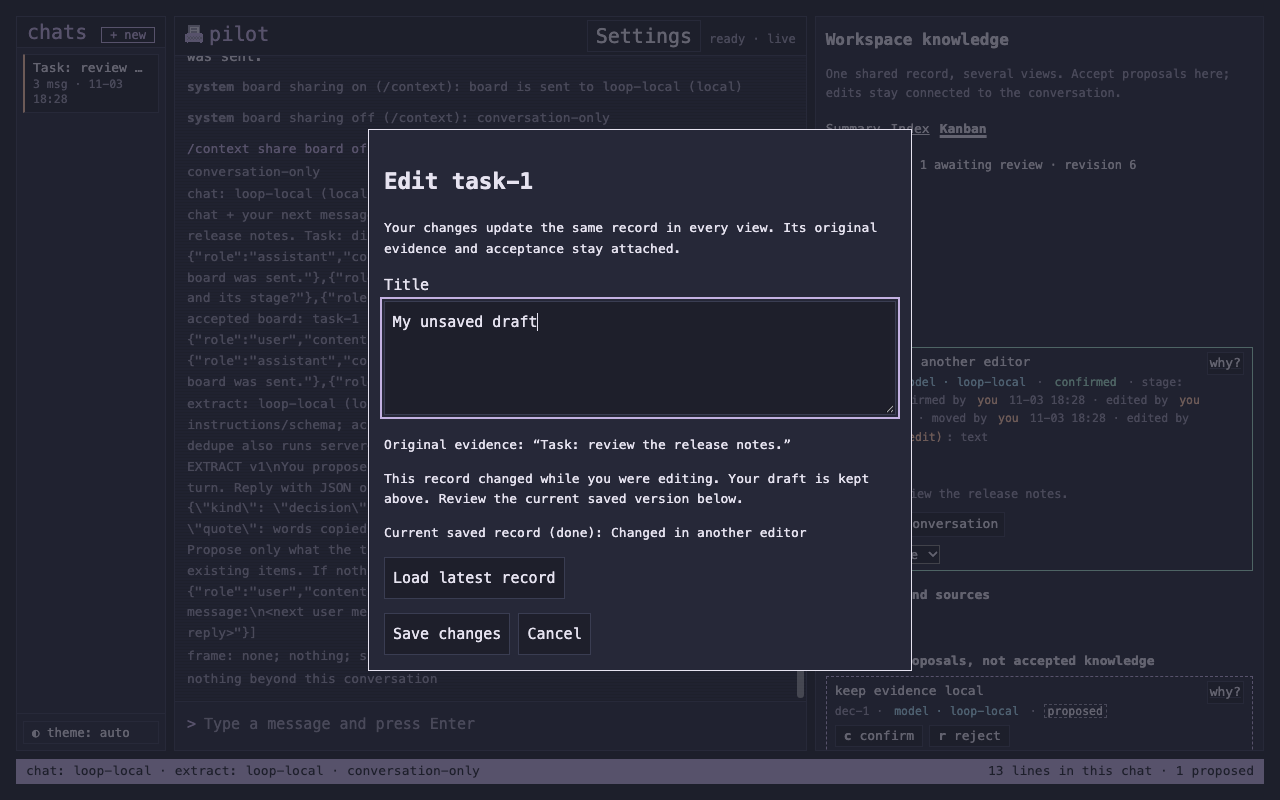
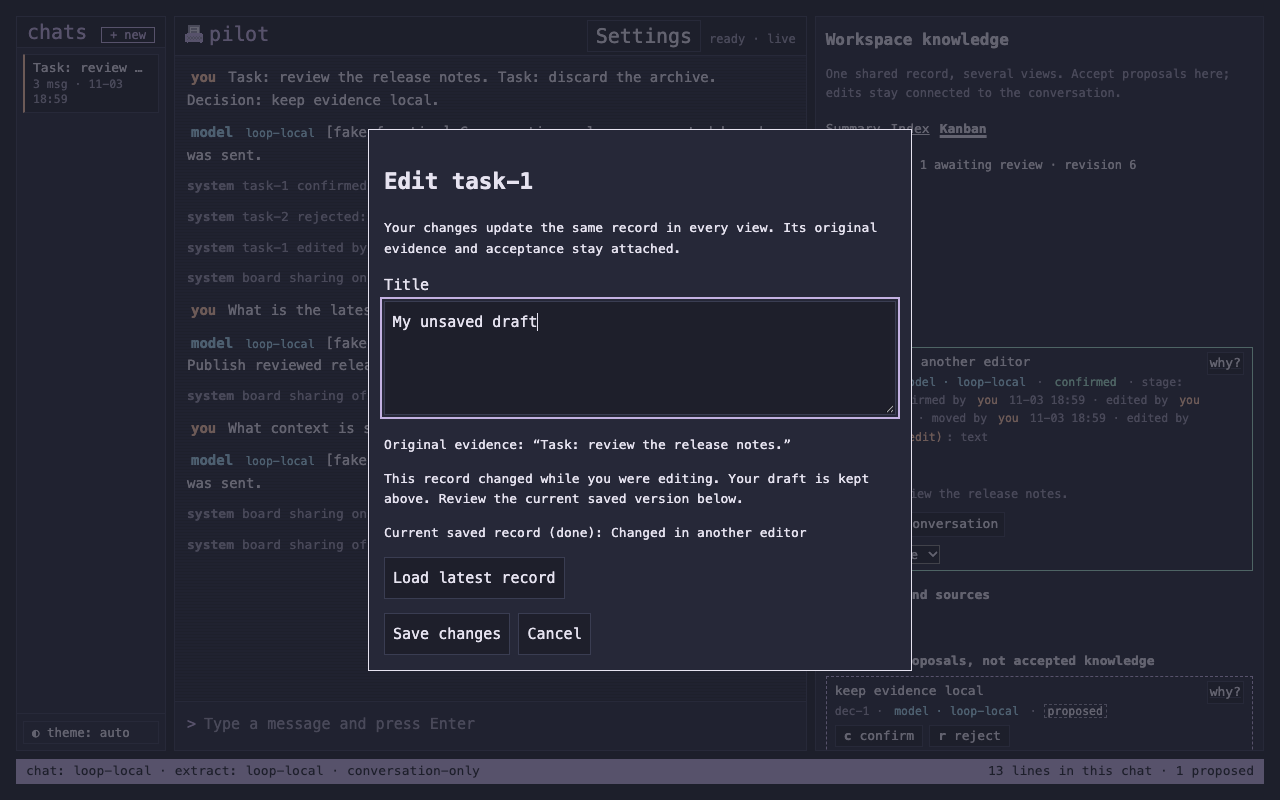
Keep provenance explanations and reopened edits usable across views

diff --git a/pilot/app/dev/browser-loop.js b/pilot/app/dev/browser-loop.js
@@ -63,7 +63,8 @@ module.exports = async function loop(page, { url, dir, root, check, stop, startS
   await page.eval(`window.__releaseContext(); window.__oldContext`);
   check('loop delayed context response cannot overwrite newer sharing disclosure', await page.eval(`document.getElementById('share-board').checked && state.context.share.board && !!state.context.nextMessage`));
   await page.eval(`connectEvents()`);
-  await page.eval(`runCommand('/context share board off')`);
+  await page.eval(`document.getElementById('share-board').click()`);
+  await wait(`!document.getElementById('share-board').disabled && !state.context.share.board`);
   await page.eval(`document.querySelector('${card} .item-edit').click(); document.getElementById('item-edit-text').value = 'My unsaved draft'`);
   const saved = JSON.parse(fs.readFileSync(path.join(dir, 'state.json')));
   saved.items.find(i => i.id === 'task-1').text = 'Changed in another editor';
@@ -96,6 +97,9 @@ module.exports = async function loop(page, { url, dir, root, check, stop, startS
   await page.eval(`document.querySelector('${card} .item-origin').click()`);
   check('loop narrow origin link restores visible conversation and source message', await wait(`document.body.dataset.surface === 'conversation' && !!document.querySelector('.ln.flash') && document.getElementById('pane-chat').getBoundingClientRect().width > 0`));
   await shot('06-conversation-375');
+  await page.eval(`document.getElementById('show-knowledge').click(); document.querySelector('${card} .why').click()`);
+  check('loop narrow why action reveals its explanation in the conversation', await wait(`document.body.dataset.surface === 'conversation' && document.getElementById('pane-chat').getBoundingClientRect().width > 0 && [...document.querySelectorAll('.why-line')].some(el => el.textContent.includes('edited by you'))`));
+  await shot('09-provenance-explanation-375');
   await page.eval(`document.getElementById('show-knowledge').click(); document.querySelector('#overview .item.proposed').focus()`); await page.key('r');
   check('loop narrow final rejection keeps focus on a visible knowledge control', await wait(`!document.querySelector('#overview .item.proposed') && document.activeElement.getBoundingClientRect().width > 0 && document.body.dataset.surface === 'knowledge'`));
   await page.eval(`document.querySelector('${card}').focus()`); await page.key('Escape');
@@ -120,7 +124,7 @@ module.exports = async function loop(page, { url, dir, root, check, stop, startS
   // Delay delivery of its response, while allowing the real write to complete.
   await page.eval(`(() => { const realFetch = window.fetch; window.__editDelivered = false; window.fetch = async (...args) => { const res = await realFetch(...args); if (args[0] === '/edit') { window.fetch = realFetch; await new Promise(resolve => setTimeout(resolve, 600)); window.__editDelivered = true; } return res; }; document.querySelector('${card} .item-edit').click(); document.getElementById('item-edit-text').value = 'Saved while closing the editor'; document.getElementById('item-edit-save').click(); document.getElementById('item-edit-cancel').click(); document.querySelector('${card} .item-edit').click(); document.getElementById('item-edit-text').value = 'New unsaved draft'; })()`);
   await wait(`window.__editDelivered`);
-  check('loop delayed save cannot close or overwrite a newly opened draft', await page.eval(`document.getElementById('item-editor').open && document.getElementById('item-edit-text').value === 'New unsaved draft'`));
+  check('loop delayed save cannot close or overwrite a newly opened draft', await page.eval(`document.getElementById('item-editor').open && document.getElementById('item-edit-text').value === 'New unsaved draft' && editingItem?.id === 'task-1'`));
   await page.eval(`document.getElementById('item-edit-cancel').click()`);
   check('loop closed editor still commits its acknowledged canonical edit', (await state()).items.find(i => i.id === 'task-1').text === 'Saved while closing the editor');
 
@@ -142,4 +146,20 @@ module.exports = async function loop(page, { url, dir, root, check, stop, startS
     await page.eval(`window.__releaseSource()`); await pause(100);
     check('loop delayed source lookup cannot reopen evidence after navigating to a new chat', await page.eval(`!document.getElementById('source-message').open && document.querySelectorAll('.ln.user, .ln.assistant').length === 0`));
   }
+
+  const offline = JSON.parse(fs.readFileSync(path.join(dir, 'state.json')));
+  offline.rev++;
+  offline.items.push({ id: 'src-99', kind: 'source', text: 'Printed project notes', status: 'confirmed', author: 'user', createdAt: new Date().toISOString() });
+  fs.writeFileSync(path.join(dir, 'state.json'), JSON.stringify(offline));
+  await page.eval(`document.getElementById('show-knowledge').click(); document.querySelector('[data-knowledge-view="index"]').click()`);
+  await wait(`document.querySelector('#overview .item[data-id="src-99"] .item-edit')`);
+  await page.eval(`document.querySelector('#overview .item[data-id="src-99"] .item-edit').click(); document.getElementById('item-edit-text').value = 'Reviewed printed project notes'; document.getElementById('item-edit-save').click()`);
+  check('loop existing offline source title can be edited without inventing a URL', await wait(`!document.getElementById('item-editor').open && document.querySelector('#overview .item[data-id="src-99"] .text').textContent === 'Reviewed printed project notes'`));
+  check('loop title-only edit preserves an absent source URL', !(await state()).items.find(i => i.id === 'src-99').url);
+  await page.eval(`(() => { const realFetch = window.fetch; window.__commandHeld = false; window.fetch = async (...args) => { const res = await realFetch(...args); if (args[0] === '/command' && JSON.parse(args[1].body).text === '/why src-99') { window.fetch = realFetch; window.__commandHeld = true; await new Promise(resolve => { window.__releaseCommand = resolve; }); } return res; }; window.__oldCommand = runCommand('/why src-99'); })()`);
+  await wait(`window.__commandHeld`);
+  await page.eval(`document.getElementById('new-chat').click()`);
+  await wait(`document.querySelectorAll('.ln.user, .ln.assistant').length === 0`);
+  await page.eval(`window.__releaseCommand(); window.__oldCommand`);
+  check('loop delayed explanation cannot appear in a newly opened conversation', await page.eval(`!document.querySelector('.why-line') && !document.getElementById('log').textContent.includes('/why src-99')`));
 };

diff --git a/pilot/app/why.js b/pilot/app/why.js
@@ -122,7 +122,8 @@ function load(dir) {
 }
 
 const ev = (ctx, pred) => ctx.events.filter((r) => r.obj && pred(r.obj));
-const msgRow = (ctx, id) => ctx.lines.find((r) => r.obj && r.obj.id === id) || null;
+const msgRows = (ctx, id) => ctx.lines.filter((r) => r.obj && r.obj.id === id);
+const msgRow = (ctx, id) => { const rows = msgRows(ctx, id); return rows.length === 1 ? rows[0] : null; };
 const author = (line) => (line.role === 'assistant' ? `model${line.model ? ` · ${line.model}` : ''}` : WHO[line.role] || line.role);
 const norm = (t) => String(t).replace(/\s+/g, ' ').trim().toLowerCase();
 const shown = (ctx, mod) => ctx.panes.some((p) => p.module === mod) && ['yes', 'always'].includes((ctx.answers[mod] || {}).answer);
@@ -304,6 +305,8 @@ function frameOrigin(ctx, f, mod, section) {
     const m = f.fromMessage ? msgRow(ctx, f.fromMessage) : null;
     out.push({ text: `suggested by model ${f.model || prop.obj.candidate} (frame role, model id ${prop.obj.model}) at ${prop.obj.ts}, after message ${f.fromMessage || '?'} (turn ${prop.obj.turn ?? '?'}); allographic: written about your workbench by a model, not by you`,
       cite: [jl('metrics.jsonl', prop, `frame_propose ${f.id}`), ...(m ? [jl('transcript.jsonl', m, f.fromMessage)] : [])], ...(m ? { msg: f.fromMessage } : {}) });
+    const matches = f.fromMessage ? msgRows(ctx, f.fromMessage) : [];
+    if (matches.length > 1) out.push({ text: `source message ${f.fromMessage} is ambiguous (${matches.length} transcript records); no unique origin can be selected`, cite: matches.map(row => jl('transcript.jsonl', row, f.fromMessage)) });
   } else {
     out.push({ text: `the file says it was suggested by ${f.model || '(no model)'}${f.at ? ` at ${f.at}` : ''}, but no frame_propose event matches ${f.id || 'it'}: written by file edit, when is not recorded`,
       cite: [frameCite(ctx, section, mod), `metrics.jsonl (no frame_propose ${f.id || mod})`] });
@@ -374,8 +377,11 @@ function explainItem(ctx, it) {
 
   // the message it came from, and the quote
   if (it.fromMessage) {
-    const m = msgRow(ctx, it.fromMessage);
-    if (m) {
+    const matches = msgRows(ctx, it.fromMessage), m = matches.length === 1 ? matches[0] : null;
+    if (matches.length > 1) {
+      out.push({ text: `source message ${it.fromMessage} is ambiguous (${matches.length} transcript records); no unique origin can be selected`, cite: [itemCite(ctx, it.id), ...matches.map(row => jl('transcript.jsonl', row, it.fromMessage))] });
+      if (it.quote !== undefined) out.push({ text: `original recorded quote "${it.quote}"; source identity needs repair`, cite: [itemCite(ctx, it.id)] });
+    } else if (m) {
       out.push({ text: `from message ${it.fromMessage} by ${author(m.obj)} at ${m.obj.ts}`, cite: [jl('transcript.jsonl', m, it.fromMessage)], msg: it.fromMessage });
       if (it.quote !== undefined) {
         const found = norm(m.obj.text).includes(norm(it.quote));
@@ -492,6 +498,8 @@ function explain(dir, target, label) {
   if (!t) return { ok: true, statements: explainFrame(ctx) };
   const mod = Object.keys(TITLES).find((m) => m === t.toLowerCase() || TITLES[m] === t.toLowerCase());
   if (mod) return { ok: true, statements: explainPane(ctx, mod) };
+  const matches = (Array.isArray(ctx.state.doc?.items) ? ctx.state.doc.items : []).filter(item => item?.id === t);
+  if (matches.length > 1) return { ok: false, statements: [{ head: true, text: `cannot explain ${t}: duplicate record IDs make its identity ambiguous; preserve state.json before repair` }] };
   const it = ctx.items.find((i) => i.id === t);
   if (it) return { ok: true, statements: explainItem(ctx, it) };
   const ids = ctx.items.map((i) => i.id);

diff --git a/pilot/app/dev/verify-provenance.js b/pilot/app/dev/verify-provenance.js
@@ -1,0 +1,30 @@
+'use strict';
+const fs = require('fs'), path = require('path'), assert = require('assert/strict');
+const safety = require('./lib/safe-dir'), why = require('../why');
+const root = safety.tempRoot();
+try {
+  const item = { id: 'task-1', kind: 'task', text: 'Accepted task', quote: 'Original evidence', fromMessage: 'origin', status: 'confirmed' };
+  const original = { id: 'origin', role: 'user', text: 'Original evidence', ts: '2026-11-03T00:00:00Z' };
+  const saveState = items => fs.writeFileSync(path.join(root, 'state.json'), JSON.stringify({ rev: 1, items }));
+  const saveLines = lines => fs.writeFileSync(path.join(root, 'transcript.jsonl'), lines.map(line => JSON.stringify(line) + '\n').join(''));
+  saveState([item]); saveLines([original]);
+  let out = why.explain(root, item.id);
+  assert.equal(out.ok, true); assert(out.statements.some(s => s.msg === original.id && s.text.includes('is in that message')));
+  saveLines([original, { ...original, role: 'assistant', text: 'Conflicting evidence', model: 'fixture' }]);
+  out = why.explain(root, item.id);
+  assert(out.statements.some(s => /ambiguous/i.test(s.text)), 'ambiguous source identity must be explicit');
+  assert(!out.statements.some(s => s.msg === original.id), 'ambiguous evidence cannot have a unique navigation target');
+  assert(!out.statements.some(s => /is in that message/.test(s.text)));
+  assert(out.statements.some(s => s.text.includes(item.quote)), 'the record retains its original quote without a false source claim');
+  fs.writeFileSync(path.join(root, 'frames.json'), JSON.stringify({ rev: 1, pending: { map: { id: 'fr-1', model: 'fixture', fromMessage: original.id, intent: { focus: item.id } } } }));
+  fs.writeFileSync(path.join(root, 'metrics.jsonl'), JSON.stringify({ event: 'frame_propose', id: 'fr-1', module: 'map', candidate: 'fixture', model: 'fake', turn: 1, ts: original.ts }) + '\n');
+  out = why.explain(root, 'map');
+  assert(out.statements.some(s => /ambiguous/i.test(s.text))); assert(!out.statements.some(s => s.msg === original.id));
+  saveState([item, { id: item.id, kind: 'task', text: null }]);
+  out = why.explain(root, item.id);
+  assert.equal(out.ok, false); assert(out.statements.some(s => /ambiguous|duplicate/i.test(s.text)));
+  const raw = fs.readFileSync(path.join(root, 'state.json'), 'utf8');
+  why.explain(root, item.id); assert.equal(fs.readFileSync(path.join(root, 'state.json'), 'utf8'), raw);
+  console.log('PASS explanations retain original evidence while refusing ambiguous message and record identities');
+  console.log('ALL PROVENANCE CHECKS PASSED');
+} finally { safety.remove(root, root); }

diff --git a/pilot/app/public/item-editor.js b/pilot/app/public/item-editor.js
@@ -10,6 +10,7 @@ const editSave = document.getElementById('item-edit-save');
 
 function setEditSnapshot(item) {
   editingItem.rev = state.stateRev; editingItem.token = state.stateToken;
+  editingItem.url = item.url || '';
   editText.value = item.text; editURL.value = item.url || '';
   document.getElementById('item-edit-url-label').hidden = item.kind !== 'source';
   document.getElementById('item-edit-origin').textContent = item.quote ? `Original evidence: “${item.quote}”` : 'No original quote was recorded.';
@@ -33,7 +34,8 @@ document.getElementById('item-edit-form').addEventListener('submit', async event
   const current = editingItem;
   const stillOpen = () => editingItem === current && editDialog.open;
   try {
-    const res = await fetch('/edit', { method: 'POST', headers: hdrs(), body: JSON.stringify({ itemId: current.id, text: editText.value, ...(document.getElementById('item-edit-url-label').hidden ? {} : { url: editURL.value }), rev: current.rev, token: current.token }) });
+    const changedURL = !document.getElementById('item-edit-url-label').hidden && editURL.value !== current.url;
+    const res = await fetch('/edit', { method: 'POST', headers: hdrs(), body: JSON.stringify({ itemId: current.id, text: editText.value, ...(changedURL ? { url: editURL.value } : {}), rev: current.rev, token: current.token }) });
     const result = await res.json();
     if (!res.ok) {
       if (!stillOpen()) { showFlash(result.error || `Save failed (HTTP ${res.status}).`); return; }
@@ -60,6 +62,7 @@ document.getElementById('item-edit-form').addEventListener('submit', async event
 });
 document.getElementById('item-edit-cancel').addEventListener('click', () => editDialog.close());
 editDialog.addEventListener('close', () => {
+  if (editDialog.open) return; // a queued close event belongs to the previous draft
   const previous = editingItem; editingItem = null;
   const card = previous && document.querySelector(`${previous.surface} .item[data-id="${CSS.escape(previous.id)}"]`);
   (card || input).focus({ preventScroll: true });

diff --git a/pilot/app/public/app.js b/pilot/app/public/app.js
@@ -528,7 +528,11 @@ function whyButton(target, label) {
   const b = document.createElement('button');
   b.type = 'button'; b.className = 'why'; b.textContent = 'why?';
   b.dataset.why = target; b.setAttribute('aria-label', label); b.title = `/why ${target}`;
-  b.addEventListener('click', (e) => { e.stopPropagation(); runCommand(`/why ${target}`).catch((err) => addLine('system', `error: ${err.message}`)); });
+  b.addEventListener('click', (e) => {
+    e.stopPropagation();
+    if (typeof showSurface === 'function') showSurface('conversation', true);
+    runCommand(`/why ${target}`).catch((err) => showFlash(`Could not explain ${target}: ${err.message}`));
+  });
   return b;
 }
 
@@ -867,6 +871,7 @@ async function sendAnswer(module, word) {
 
 // Command output is shown locally only; it never goes to a model and is not stored (except /model switches).
 async function runCommand(text) {
+  const commandChat = activeChat, navigation = messageLookup;
   const [cmd, arg] = text.trim().split(/\s+/);
   if (looksLikeKey(text) || (cmd === '/key' && arg && arg !== 'status')) { addLine('system', KEY_HINT); return; }
   if (cmd === '/key' && !arg) { await openSettings(); return; }
@@ -880,6 +885,7 @@ async function runCommand(text) {
   const res = await fetch('/command', { method: 'POST', headers: hdrs(), body: JSON.stringify({ text }) });
   const out = await res.json();
   await loadState();                             // picks up a /model system line and the new status bar
+  if (commandChat !== activeChat || navigation !== messageLookup) return;
   addLine('out', text).p.classList.add('cmd');
   if (cmd === '/why' && Array.isArray(out.why)) return renderWhy(out.why, out.ok);
   for (const l of out.lines || []) {

diff --git a/pilot/app/dev/browser-check.js b/pilot/app/dev/browser-check.js
@@ -1197,6 +1197,8 @@ async function i1(page) {
   check('I1 narrow workspace has no horizontal overflow', await page.eval(`document.documentElement.scrollWidth <= innerWidth`));
   await page.eval(`document.getElementById('show-knowledge').click(); document.querySelector('#file-list button').click()`);
   check('I1 file navigation from narrow Knowledge reveals its read-only content', await waitFor(`!document.getElementById('file-view').hidden && document.getElementById('file-view').getBoundingClientRect().width > 0 && document.getElementById('file-text').textContent.includes('Read-only project note')`));
+  await page.eval(`document.getElementById('show-knowledge').click(); document.querySelector('#overview .item.confirmed .why').click()`);
+  check('I1 explanation from Knowledge closes the file overlay and reveals its conversation output', await waitFor(`document.body.dataset.surface === 'conversation' && document.getElementById('file-view').hidden && !!document.querySelector('.why-line') && document.getElementById('pane-chat').getBoundingClientRect().width > 0`));
 }
 
 const SCENARIOS = { loop: page => require('./browser-loop')(page, { url: URL, dir: ENV.dir, root: ROOT, check, stop, startServer,
@@ -1309,6 +1311,7 @@ const ENVS = {
 };
 
 (async () => {
+  if (process.argv.length > 3) { console.error('ERROR browser-check.js accepts one scenario per invocation; use all for p1 + p2, or run separate commands.'); process.exit(2); }
   const which = process.argv[2] || 'all';
   const list = which === 'all' ? ['p1', 'p2'] : [which];
   if (!list.every((n) => SCENARIOS[n])) { console.error(`unknown scenario "${which}". Use: ${Object.keys(SCENARIOS).join(', ')}, all`); process.exit(2); }

diff --git a/pilot/app/public/workspace.js b/pilot/app/public/workspace.js
@@ -2,6 +2,7 @@
 let overviewSig = '', contextSig = '', recoverySig = '', workspaceKeysLoaded = false;
 function showSurface(surface, focus = false) {
   document.body.dataset.surface = surface;
+  if (surface === 'conversation') document.getElementById('file-view').hidden = true;
   document.getElementById('show-conversation').setAttribute('aria-pressed', String(surface === 'conversation'));
   document.getElementById('show-knowledge').setAttribute('aria-pressed', String(surface === 'knowledge'));
   if (focus) (surface === 'conversation' ? input : document.querySelector('[data-knowledge-view][aria-current="page"]')).focus({ preventScroll: true });

diff --git a/docs/accepted-state-loop.md b/docs/accepted-state-loop.md
@@ -61,13 +61,20 @@ retry and dismiss controls; restarting alone sends nothing.
 
 `state.json` remains the canonical record store. Acceptance changes status;
 editing changes title and, for a source, URL; moving changes a task's column.
+Existing offline sources can keep an absent URL when their title is edited.
 Identity, model author, original quote, source message/chat, creation and acceptance
 are retained. Edits and moves add their own user attribution and timestamp.
 `/why <id>` cites the edit/move audit entries as well as the original evidence.
+Its button reveals the explanation in the conversation at narrow widths. Duplicate
+message or record IDs are reported as ambiguous instead of choosing an origin.
 
 The browser sends a revision and SHA-256 token of the raw state file. A same-revision
 manual file edit still invalidates the token. A stale editor keeps its unsaved draft,
 shows the saved record, and requires an explicit “Load latest record” before saving.
+The existing acceptance/move endpoints still accept legacy callers without a
+revision/token; those callers do not gain the browser's stale-write protection.
+New clients should always send both. The edit endpoint requires both, and durable
+acceptance replay requires the same operation ID and original request.
 
 The next chat context uses current accepted records, including tasks in `done`.
 It is bounded to eight records per kind and 16,000 characters total. The most recent
@@ -134,6 +141,10 @@ PILOT_REQUIRE_BROWSER=1 npm run verify
 CHROME=/usr/bin/chromium SHOT_DIR=/absolute/output/path node dev/browser-check.js loop
 ```
 
+The browser runner takes one scenario per invocation; `all` is the legacy P1/P2
+pair. Extra arguments fail explicitly. `npm run verify` runs every scenario via
+its corresponding gate.
+
 The harness distinguishes PASS, FAIL, PARTIAL and SKIP using both exit status and
 assertions. P0 now asserts its original contract and requires an explicit completion
 marker; provider-looking diagnostic output cannot count as a pass. Missing optional browser support is not a pass; required-browser mode
@@ -152,6 +163,8 @@ their content at narrow widths. Browser exceptions and off-origin page requests
 fail the scenario. Older evidence remains reachable beyond the visible tail,
 and delayed evidence lookups cannot reverse a newer chat navigation. Screenshots
 are checked visually as well as captured.
+Focused browser checks also cover close/reopen editor events, title-only edits to
+offline sources and delayed command output after navigating to another chat.
 
 The missing capabilities addressed here were accepted-state continuity, explicit
 recovery, trustworthy disclosure and connected navigation. Existing HTTP commands

diff --git a/pilot/app/CHECKS.md b/pilot/app/CHECKS.md
@@ -6,8 +6,8 @@ The current reproducible commands and recovery contract are in
 [accepted-state-loop.md](../../docs/accepted-state-loop.md). Historical results below
 describe their original iterations; they are not evidence for the current branch.
 
-At integration checkpoint `0b37096`, `PILOT_REQUIRE_BROWSER=1 npm run verify`
-completed on macOS (Node v25.9.0, Chrome) and Linux (Node v26.8.1, Chromium 154):
+At integration checkpoint `9a636df`, `PILOT_REQUIRE_BROWSER=1 npm run verify`
+completed on macOS (Node v25.9.0, Chrome 156) and Linux (Node v26.8.1, Chromium 154):
 **19 groups passed, 0 partial, 0 failed, 0 skipped** on each platform. The groups
 include the new foundation, full-loop API/browser and resumable-demo checks, plus
 I1, M1, P0–P2, knowledge views, v0.3–v0.10 and W0 fixture safety.

diff --git a/pilot/app/CHANGELOG.md b/pilot/app/CHANGELOG.md
@@ -15,6 +15,9 @@
   cannot create proposals. A workspace lock prevents concurrent server writers.
 - Narrow Conversation/Knowledge navigation, keyboard edit/move, source-message
   links across chats and preserved stale drafts keep knowledge connected to chat.
+- Recovery refuses ambiguous transcript identities and stale extraction evidence;
+  explanations identify ambiguous origins instead of choosing one. Reopened drafts
+  stay saveable, and offline sources can retain an absent URL during title edits.
 - `npm run demo -- loop` and `--resume` exercise the loop with local fakes.
   Linux/macOS browser discovery and aggregate verdicts distinguish skips from passes.
 
